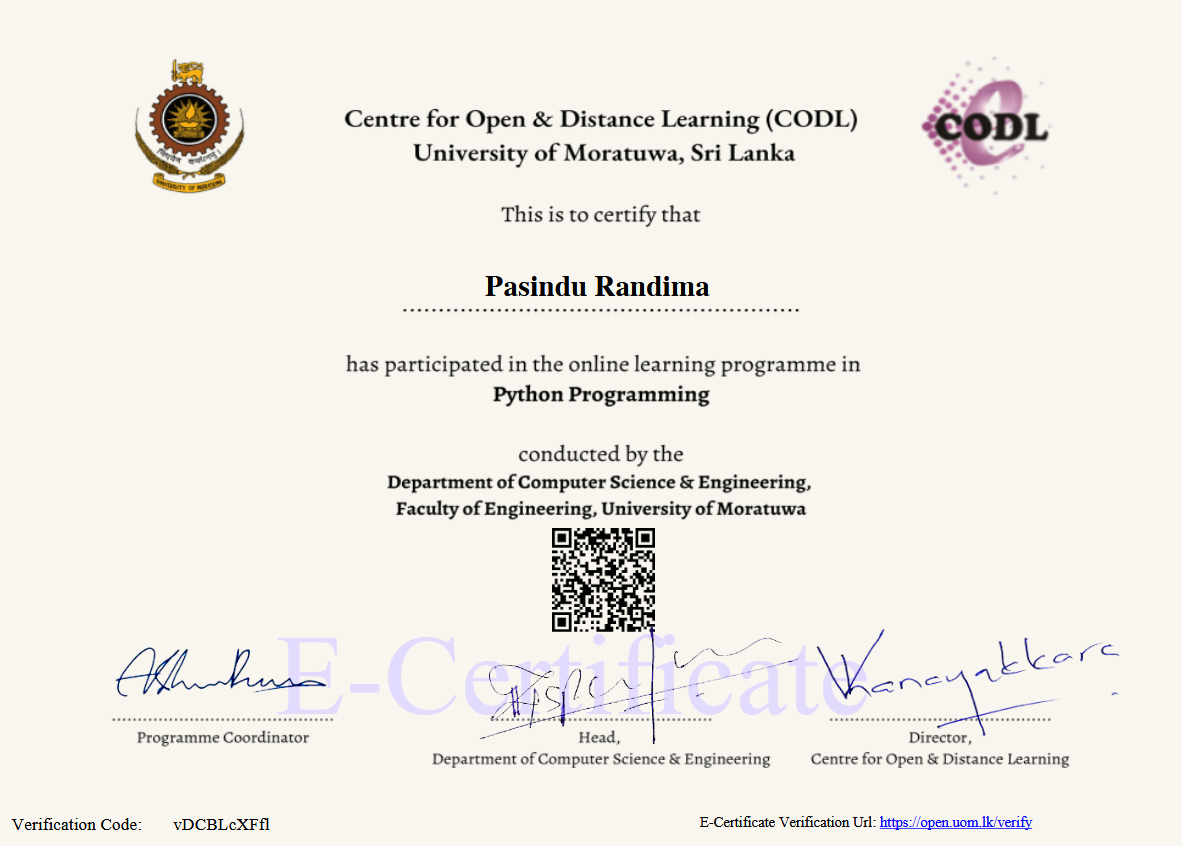
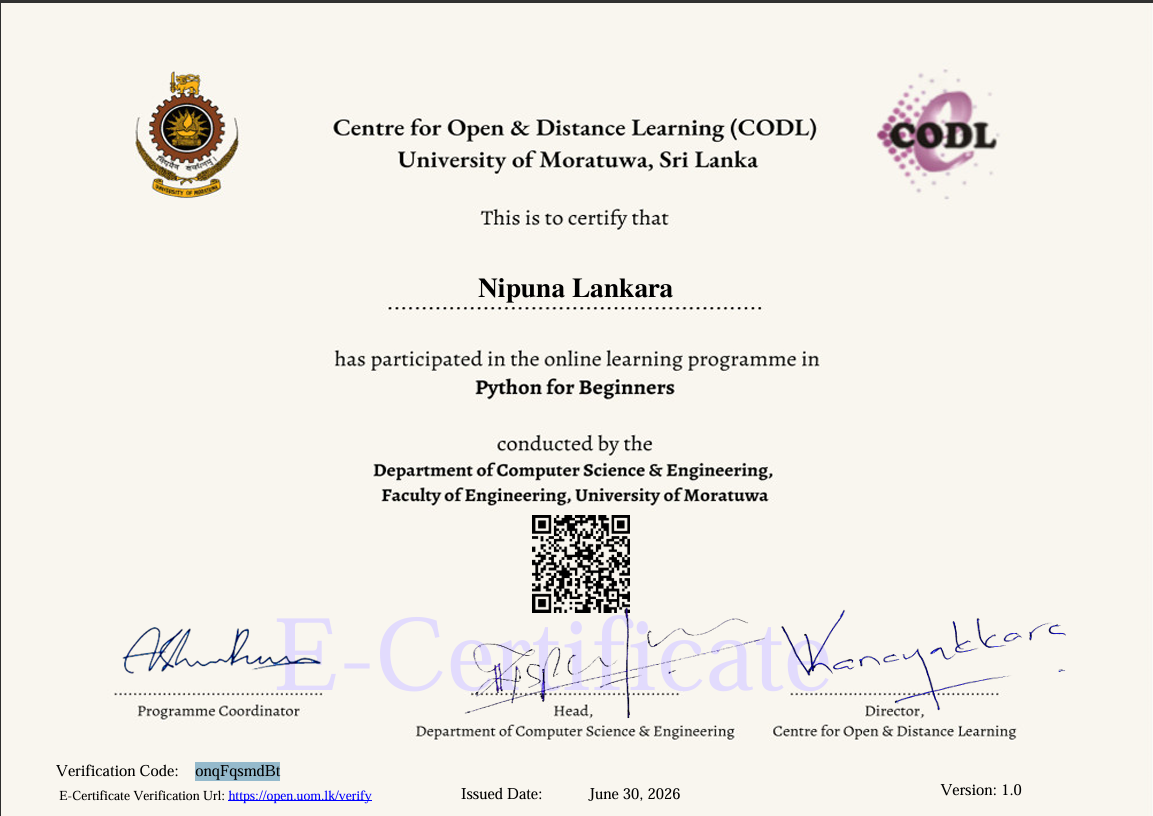
add python certificate

diff --git a/frontend/src/components/Certificates/Certificate.jsx b/frontend/src/components/Certificates/Certificate.jsx
@@ -4,20 +4,13 @@ import theme_pattern from "../../assets/theme_pattern.svg";
 import { FaCertificate } from "react-icons/fa";
 
 // Import your certificate images here (add your own image files in assets/certificates/)
-import cert1 from "../../assets/frontend.png";
-import cert2 from "../../assets/serverside.png";
-import cert3 from "../../assets/react.png";
-import cert4 from "../../assets/aws.png";
-import cert5 from "../../assets/sql.png";
-import cert6 from "../../assets/python.png";
-import cert7 from "../../assets/java.png";
-import cert8 from "../../assets/figma.png";
-import cert9 from "../../assets/projectscope.png";
+import cert1 from "../../assets/python.png";
+
 
 const certificates = [
   {
-    year: "2025",
-    title: "Front End Web Development",
+    year: "2026",
+    title: "Python For Beginners",
     issuer: "University of Moratuwa E-Learning",
     image: cert1,
   },

diff --git a/frontend/src/App.jsx b/frontend/src/App.jsx
@@ -18,7 +18,7 @@ const App = () => {
      
      <MyWork/>
      <SkillsAndTools />
-     {/*<Certificate/>*/}
+     <Certificate/>
      <Contact/>
      <Footer/>
     
